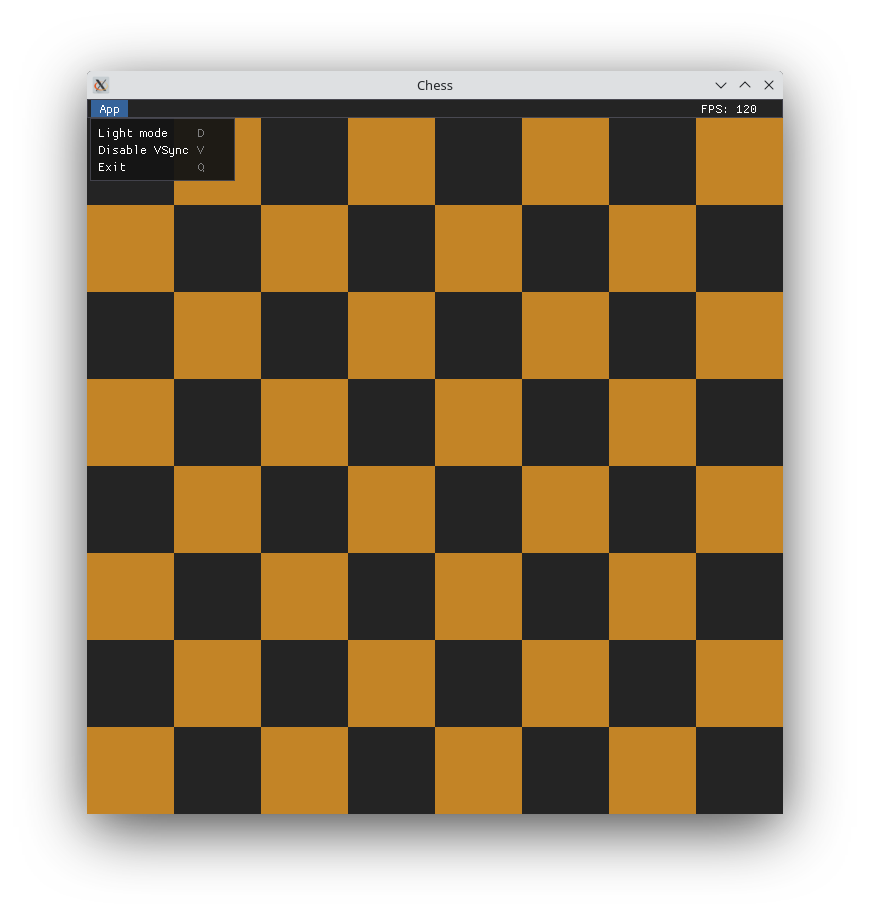
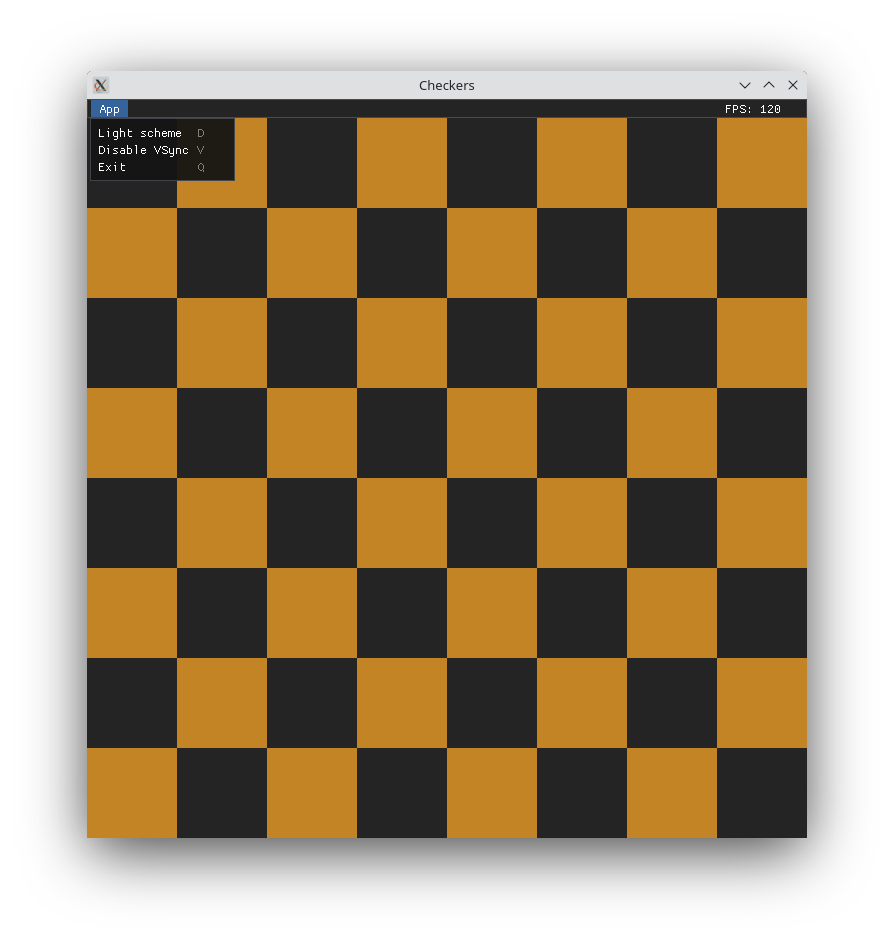
now it's checkers; lol

diff --git a/src/main.cpp b/src/main.cpp
@@ -32,7 +32,7 @@ int main(void)
 {
     SDL_Init(SDL_INIT_VIDEO | SDL_INIT_EVENTS);
 
-    SDL_Window* window = SDL_CreateWindow("Chess", SDL_WINDOWPOS_CENTERED, SDL_WINDOWPOS_CENTERED, 720, 720 + 19, SDL_WINDOW_RESIZABLE);
+    SDL_Window* window = SDL_CreateWindow("Checkers", SDL_WINDOWPOS_CENTERED, SDL_WINDOWPOS_CENTERED, 720, 720 + 19, SDL_WINDOW_RESIZABLE);
     SDL_Renderer* renderer = SDL_CreateRenderer(window, -1, 0);
 
     cell_size = 720 / 8;

diff --git a/readme.md b/readme.md
@@ -1,4 +1,4 @@
-# Chess
+# Checkers
 
 ![Screenshot of the project](screenshots/1.png)
 
@@ -9,7 +9,7 @@
 To clone the repository with all submodules, use:
 
 ```bash
-git clone git@github.com:oleksandrh324110/Chess.git --recursive && cd Chess
+git clone git@github.com:oleksandrh324110/Checkers.git --recursive && cd Checkers
 ```
 
 If you forgot to use `--recursive`, you can initialize and update the submodules later:
